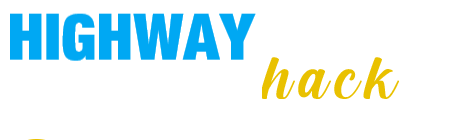
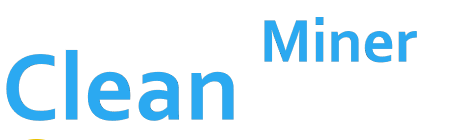
yes

diff --git a/README.md b/README.md
@@ -1,19 +1,13 @@
-[![Sal Hack logo](/src/main/resources/assets/salhack/imgs/SalHackWatermark.png)](https://github.com/ionar2/salhack/)
-
-[![Discord](https://img.shields.io/discord/694337597371056198?label=discord&logo=discord&logoColor=white)](https://discord.gg/UEyGRGu) 
-[![Gradle Build](https://github.com/ionar2/salhack/workflows/Gradle%20Build/badge.svg?branch=master)](https://github.com/ionar2/salhack/actions)
-[![GitHub All Releases](https://img.shields.io/github/downloads/ionar2/salhack/total.svg)](https://github.com/ionar2/salhack/releases/)
-[![GitHub contributors](https://img.shields.io/github/contributors/ionar2/salhack.svg)](https://github.com/ionar2/salhack/graphs/contributors/)
-[![Contributions](https://img.shields.io/badge/contributions-unmaintained-lightgray.svg?style=flat)](https://github.com/ionar2/salhack/issues/)
+Ethius is the group that made the modifications to salhack and created this thing.
 
 ## Salhack
-Salhack is a Forge mod made by ionar. Recently, ionar has made the decision to leave the project, and as such, this project is discontinued without a main developer. 
+Salhack is a Forge mod made by ionar. Recently, ionar has made the decision to leave the project, and as such, this project is discontinued without a main developer. And therefore someone that wanted to buid the higway system on endcrystal.me decided to make this thing.
 
-This project is **not maintained**. 
+CleanMiner is maintained.
  
 ## Installation
 
-Salhack is a forge mod for `1.12.2`. We provide already pre build jar files on our [release page](https://github.com/ionar2/salhack/releases). If you want to have changes before they get officially released check our [CI](https://github.com/ionar2/salhack/actions) out. (It builds a new jar file on every change we make.) To use salhack just drop the jar file in your mods folder and start forge. Have fun!
+CleanMinder is a forge mod for `1.12.2` that was based off Salhack. We provide already pre build jar files on our [release page](https://github.com/ionar2/salhack/releases). If you want to have changes before they get officially released check our [CI](https://github.com/ionar2/salhack/actions) out. (It builds a new jar file on every change we make.) To use salhack just drop the jar file in your mods folder and start forge. Have fun!
 
 **Tip:** You can open the GUI containing all "tweaks" with your left arrow at default (You can change that later.)
 
